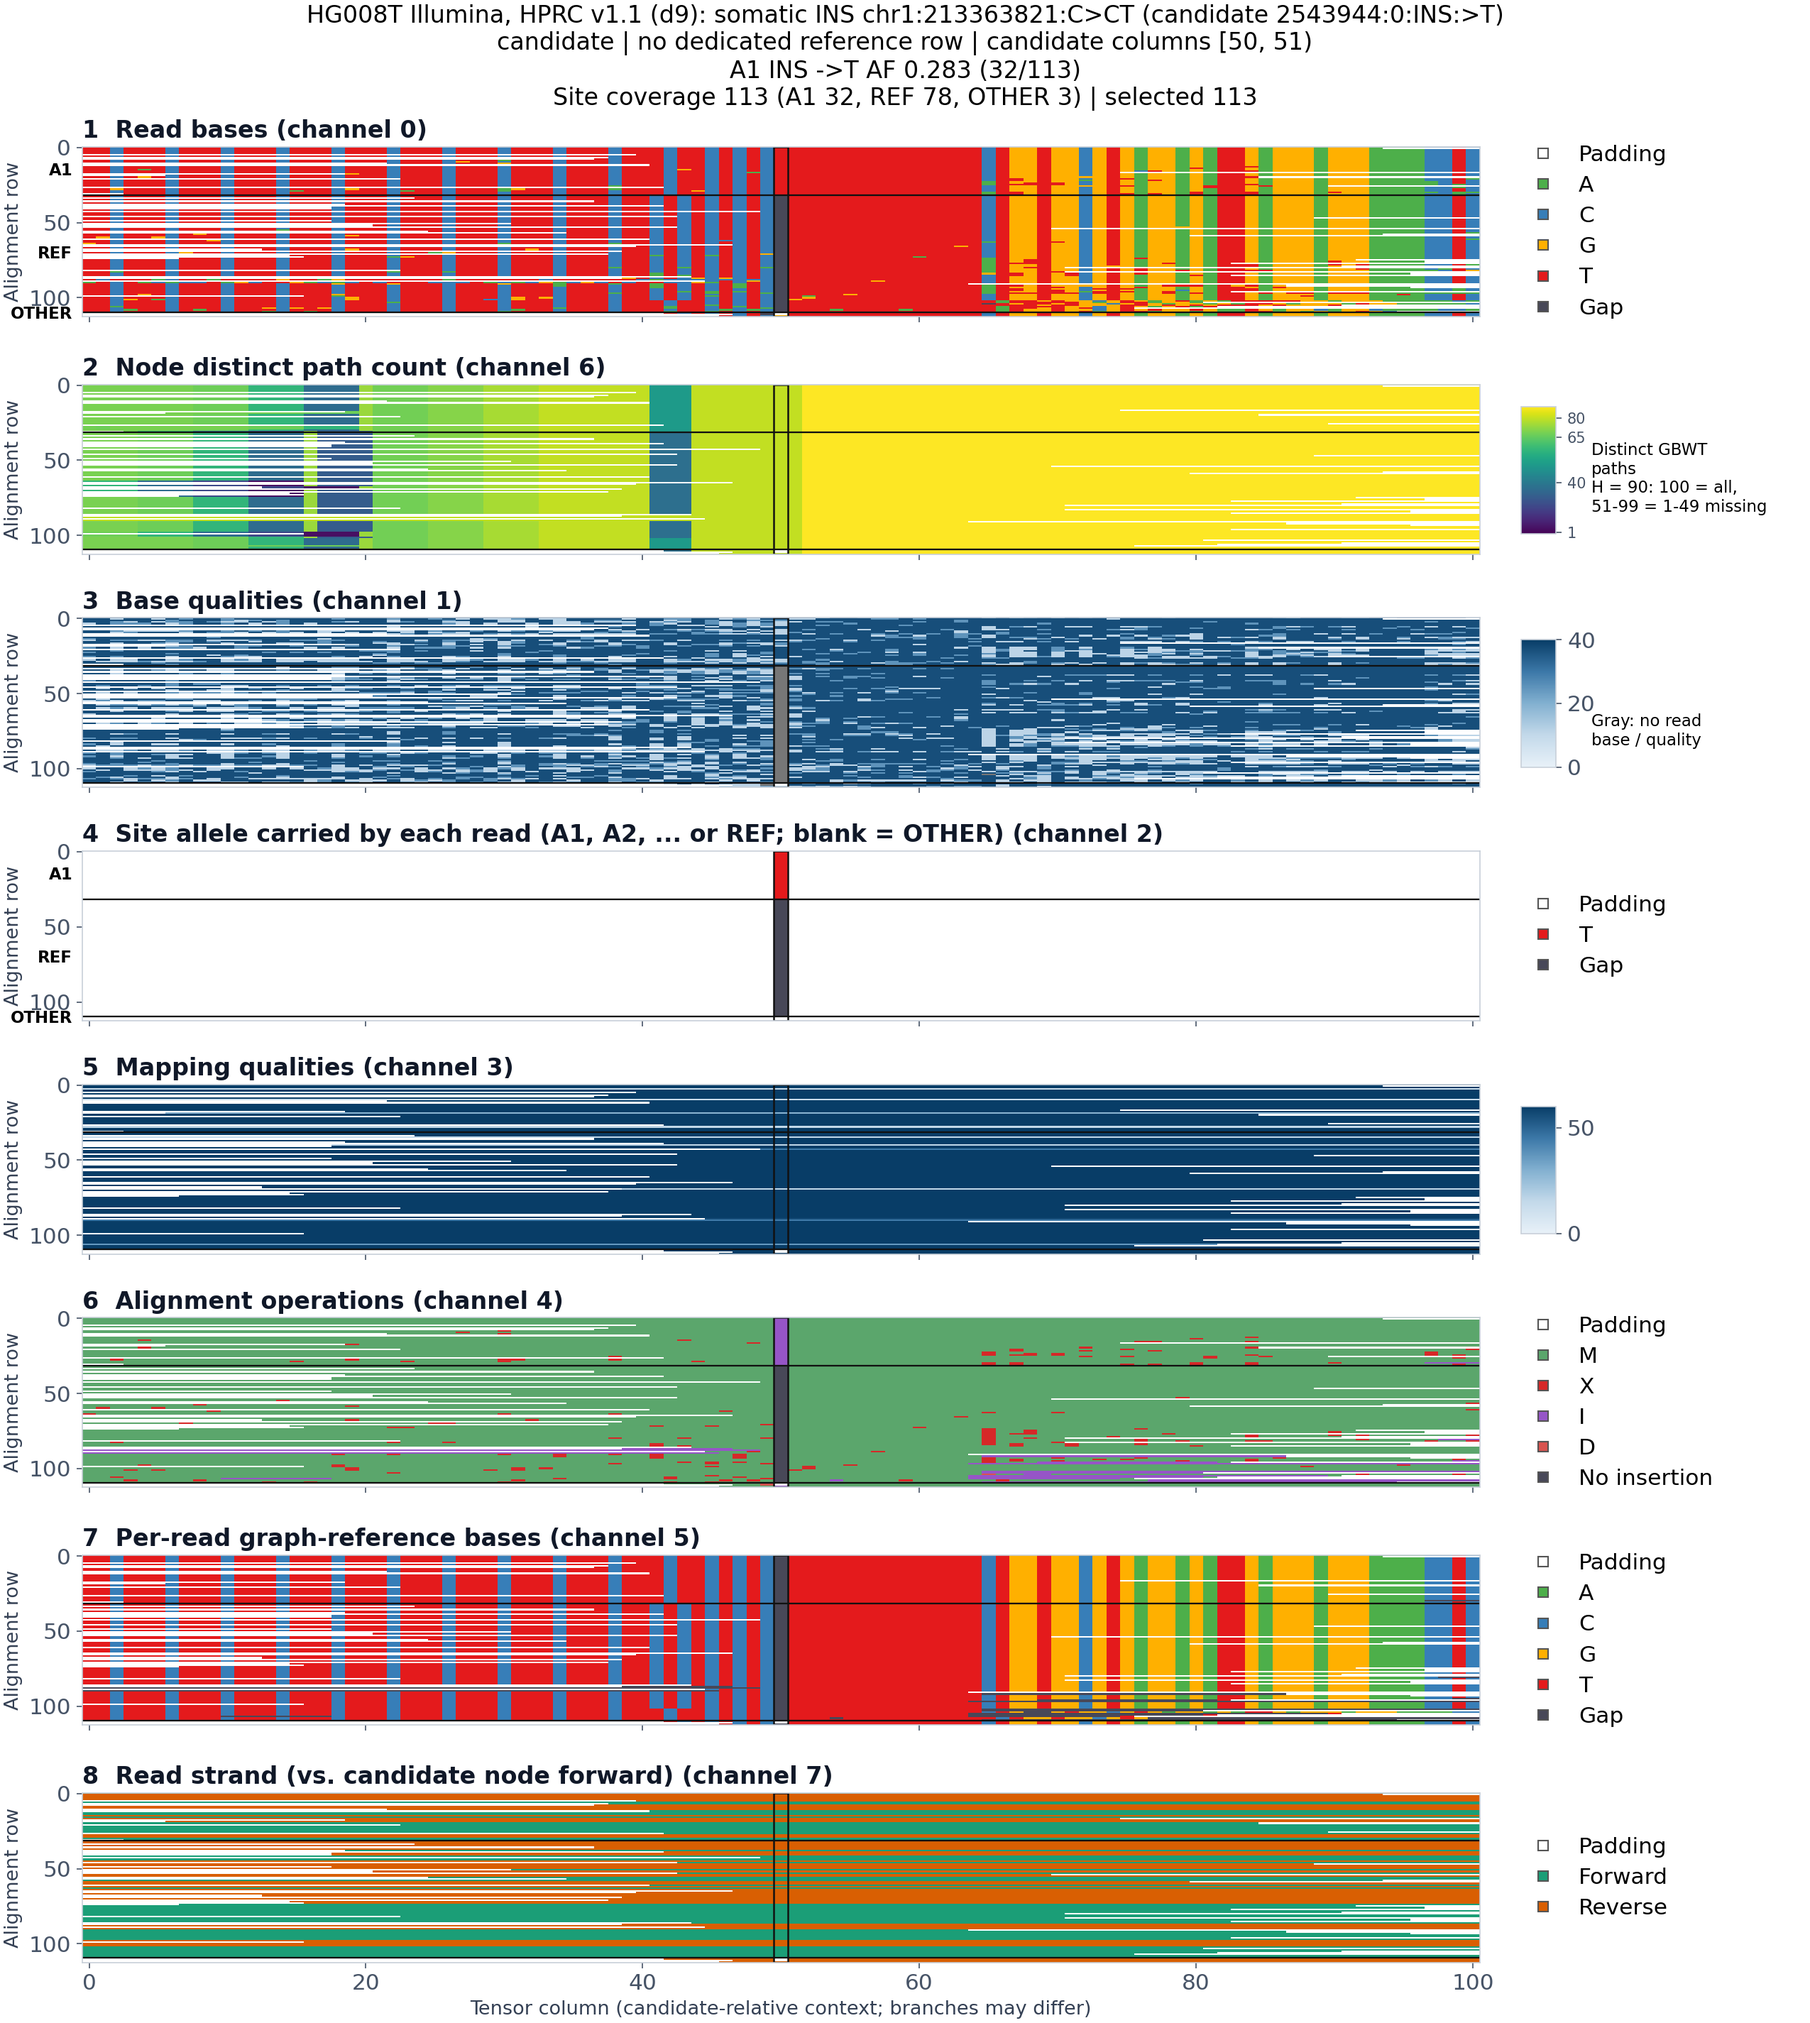
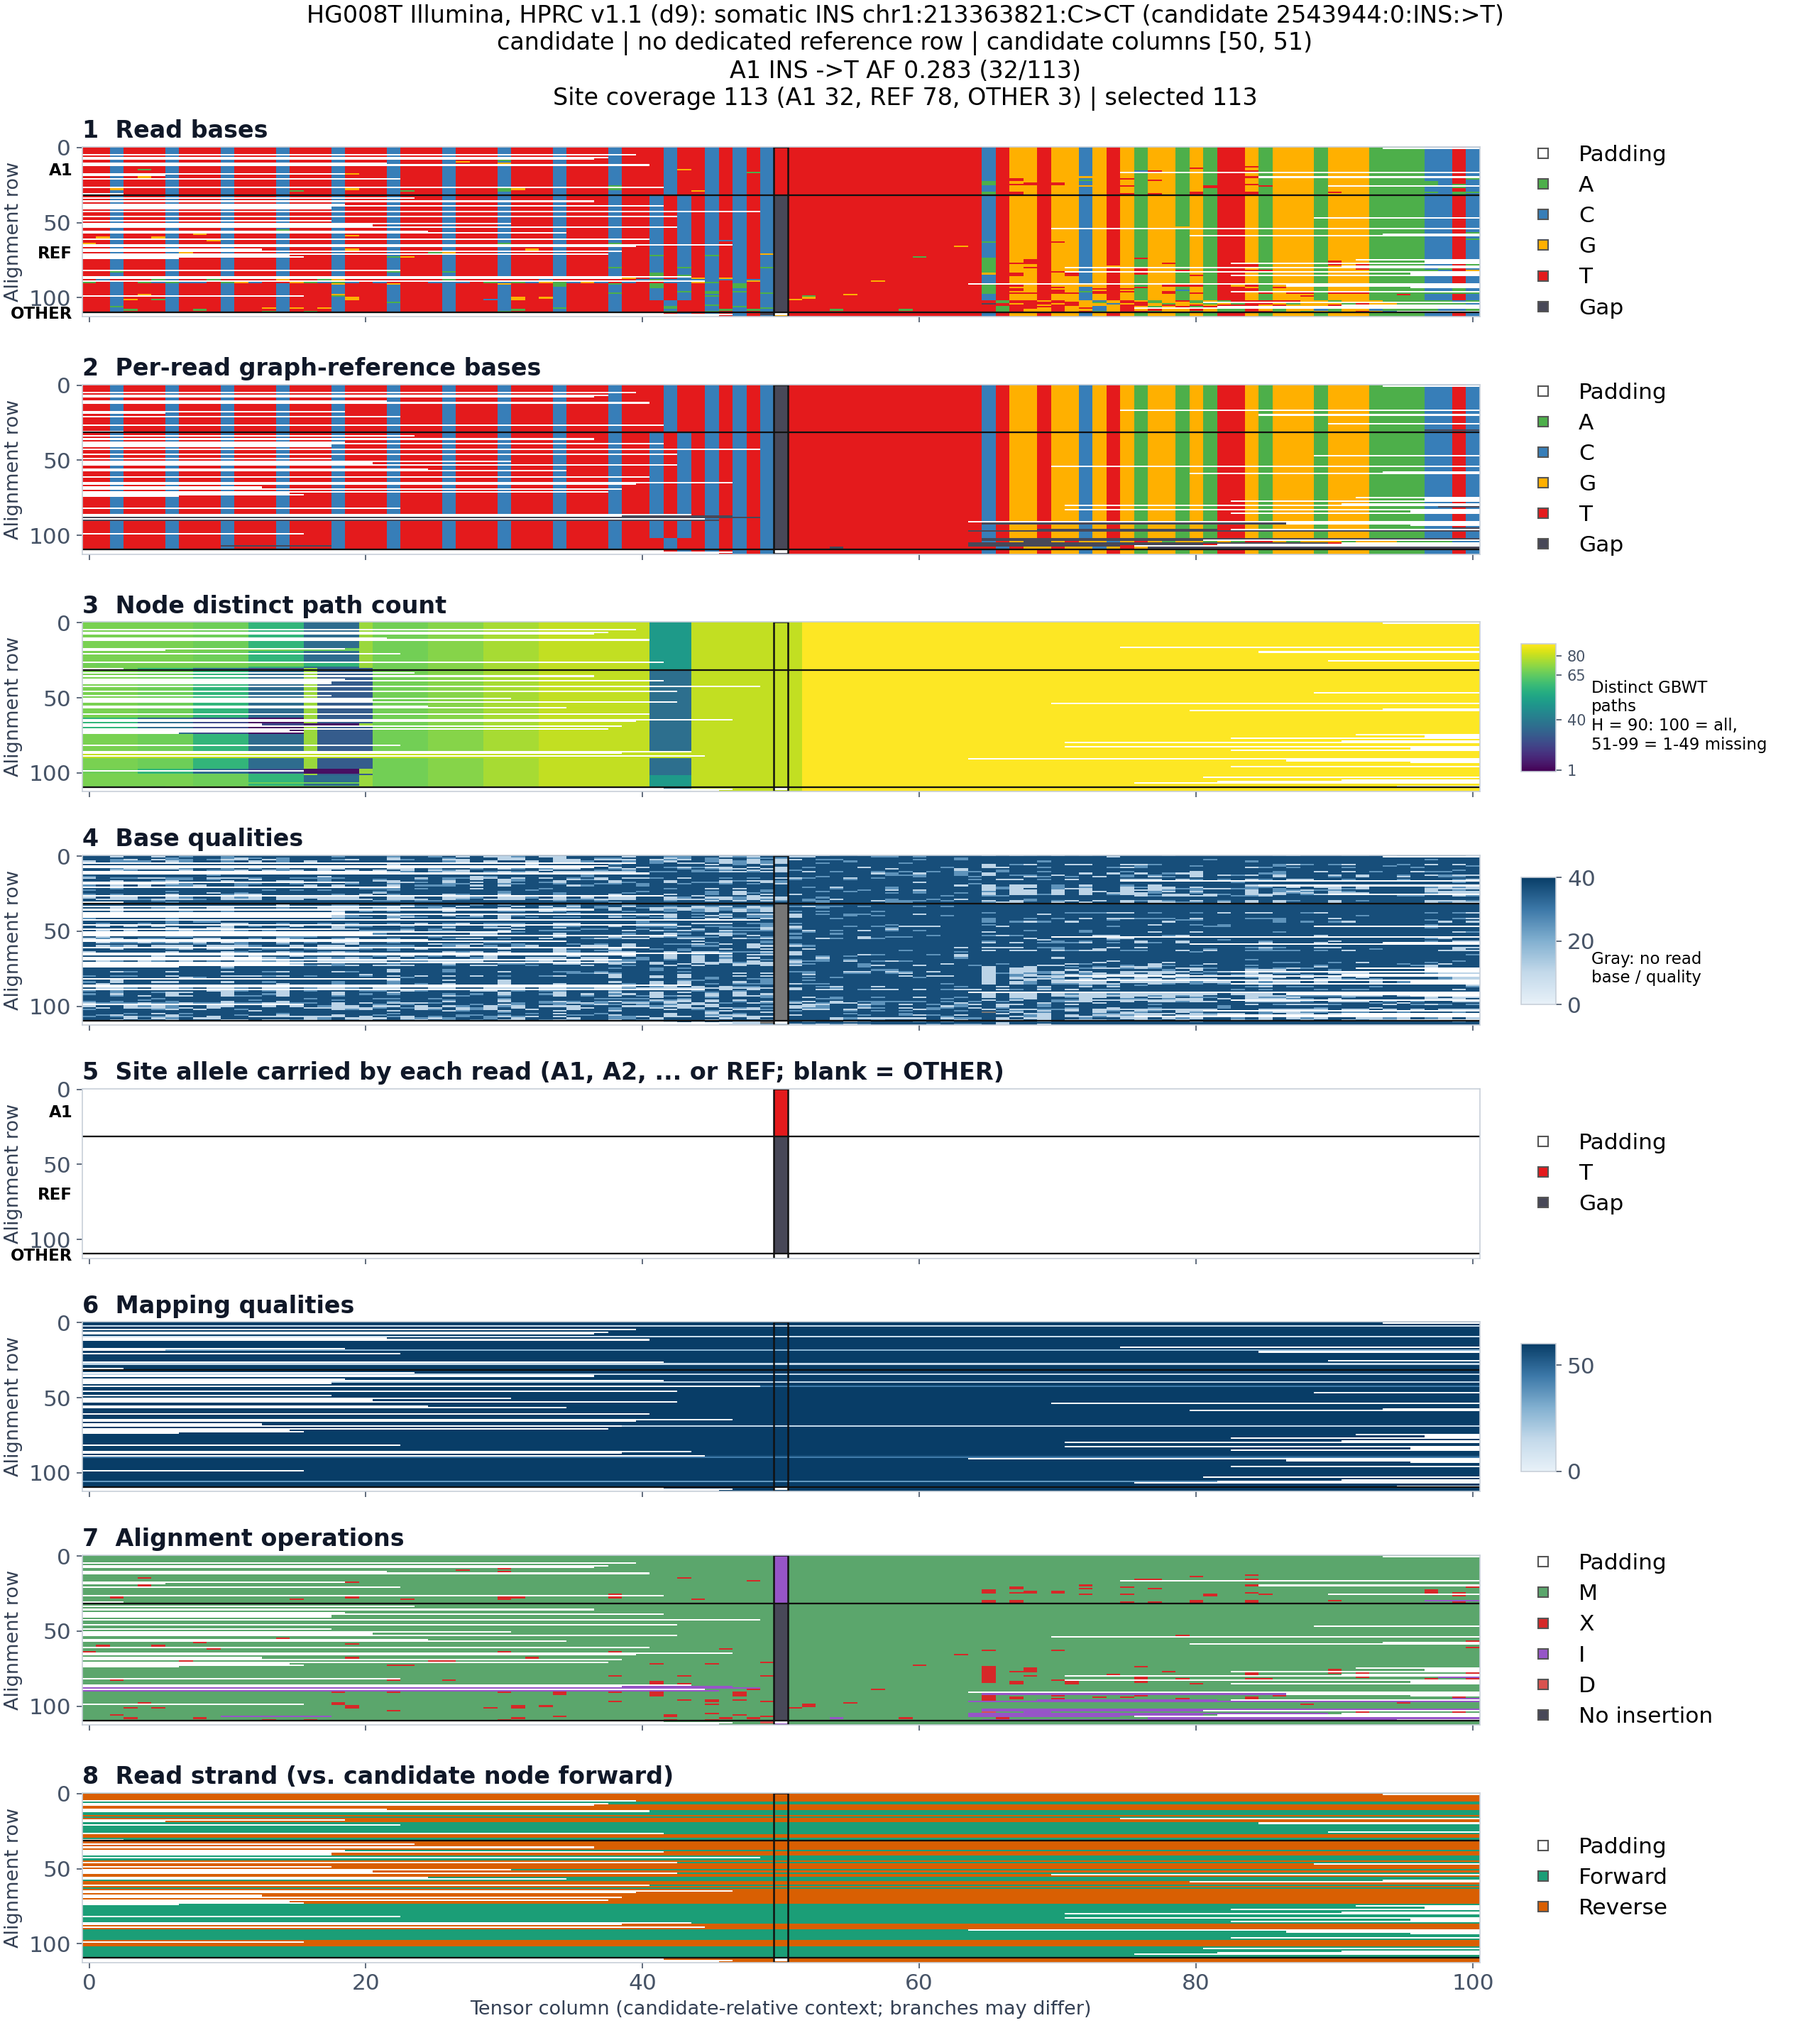
analysis/reviewer_response_20261011: the ten INDEL Supplementary Fig. R1.m2 panels in the order 0, 5, 6, 1, 2, 3, 4, 7 (graph-reference base second, path count third; user correction 2026-11-10); scripts/visualize_tensor.py --panel-order titles without the channel number

diff --git a/tests/test_tensor_visualization.py b/tests/test_tensor_visualization.py
@@ -277,7 +277,7 @@ class VisualizationTest(unittest.TestCase):
 
     def test_panel_order_moves_panels_and_keeps_channel_numbers(self):
         v6,m=v6_example()
-        order=[0,6,1,2,3,4,5,7]
+        order=[0,5,6,1,2,3,4,7]
         real_close=v.plt.close
         with tempfile.TemporaryDirectory() as d,patch.object(v.plt,"close"):
             self.assertEqual(v.visualize_tensor(v6,str(Path(d)/"o.png"),"T",False,None,metadata=m,panel_order=order),2)
@@ -285,11 +285,12 @@ class VisualizationTest(unittest.TestCase):
             main=[ax for ax in fig.axes if ax.get_subplotspec() is not None and ax.get_subplotspec().colspan.start==0]
             rows={ax.get_subplotspec().rowspan.start:ax for ax in main}
             self.assertEqual(sorted(rows),list(range(8)))
-            np.testing.assert_array_equal(np.ma.filled(rows[1].images[0].get_array(),0),v6[6,:2])  # path count second
-            np.testing.assert_array_equal(rows[3].images[0].get_array(),v6[2,:2])                 # site allele third
-            self.assertTrue(rows[1].get_title(loc="left").startswith("2  Node distinct path count"))
-            self.assertTrue(rows[1].get_title(loc="left").endswith("(channel 6)"))
-            self.assertTrue(rows[2].get_title(loc="left").startswith("3  Base qualities"))
+            np.testing.assert_array_equal(rows[1].images[0].get_array(),v6[5,:2])                 # graph base second
+            np.testing.assert_array_equal(np.ma.filled(rows[2].images[0].get_array(),0),v6[6,:2])  # path count third
+            np.testing.assert_array_equal(rows[4].images[0].get_array(),v6[2,:2])                 # site allele fifth
+            self.assertEqual(rows[1].get_title(loc="left"),"2  Per-read graph-reference bases")
+            self.assertEqual(rows[2].get_title(loc="left"),"3  Node distinct path count")
+            self.assertEqual(rows[3].get_title(loc="left"),"4  Base qualities")
             self.assertEqual(rows[7].get_xlabel(),"Tensor column (candidate-relative context; branches may differ)")
             self.assertEqual([ax for ax in main if ax.get_xlabel()],[rows[7]])
             real_close(fig)

diff --git a/scripts/visualize_tensor.py b/scripts/visualize_tensor.py
@@ -472,8 +472,8 @@ def visualize_candidate_tensor(tensor, out_path, title, show_all_rows=False,
               "4  Mapping qualities", "5  Alignment operations", "6  Per-read graph-reference bases",
               "7  Node distinct path count" if v5 else "7  Node walk count",
               "8  Read strand (vs. candidate node forward)"]
-    if panel_order is not None:  # number panels by position; keep the channel number (0-based) in the title
-        titles = [f"{position[c] + 1}  {t.split('  ', 1)[1]} (channel {c})" for c, t in enumerate(titles)]
+    if panel_order is not None:  # number panels by position
+        titles = [f"{position[c] + 1}  {t.split('  ', 1)[1]}" for c, t in enumerate(titles)]
     for channel, ax in enumerate(axes):
         ax.set_title(titles[channel], loc="left", fontsize=16)
         ax.set_ylabel("Alignment row", fontsize=13)
@@ -675,8 +675,8 @@ def main() -> None:
     parser.add_argument("--shard-index", type=int, help="Metadata shard index for nonstandard filenames")
     parser.add_argument("--title", help="Optional figure title.")
     parser.add_argument("--panel-order", help="Candidate tensors: channels top to bottom, comma-separated 0-based "
-                        "(e.g. 0,6,1,2,3,4,5,7 puts the path count second); panels are numbered by position and "
-                        "titles keep the channel number. Default: channel order.")
+                        "(e.g. 0,5,6,1,2,3,4,7 puts the graph base second and the path count third); panels are numbered by "
+                        "position. Default: channel order.")
     args = parser.parse_args()
 
     path = os.path.expanduser(args.npy_path)

diff --git a/analysis/reviewer_response_20261011/supplementary/R1.m2/indel/README.md b/analysis/reviewer_response_20261011/supplementary/R1.m2/indel/README.md
@@ -5,8 +5,8 @@ example in `../fig_R1.m2_tensor_across_nodes.png`. Each is an exact match to a t
 `representative_allele_is_somatic_truth`, FILTER PASS, inside the benchmark BED). In each, the ALT and REF reads pass
 through different nodes somewhere in the window.
 
-Panels are drawn in the order of channels 0, 6, 1, 2, 3, 4, 5, 7, so the path count (channel 6) is panel 2. Panel
-titles keep the 0-based channel number. Rows are reads, grouped by the allele they carry at the site (A1 = ALT, then
+Panels are drawn in the order of channels 0, 5, 6, 1, 2, 3, 4, 7: read bases, graph-reference bases (channel 5),
+path count (channel 6), then base quality, site allele, mapping quality, alignment operation and strand. Rows are reads, grouped by the allele they carry at the site (A1 = ALT, then
 REF, then OTHER). Columns are the 101 positions of the window; the site starts at column 50.
 
 ## Files
@@ -17,7 +17,7 @@ REF, then OTHER). Columns are the 101 positions of the window; the site starts a
 | `select_examples.py` → `candidates.tsv` | every exact, PASS, in-BED somatic truth INDEL tensor on chr1 of the twelve HPRC sets (HG008T / COLO829T × Illumina, PacBio HiFi or Fiber-seq, ONT × HPRC v1.1 d9 / v2.1 d46) with >= 5 ALT and REF rows: 1,661 tensors |
 | `choose.py` → `picks.tsv` | the ten examples (rules below) |
 | `annotate.py` → `annotations.md` | caption facts: GRCh38-path nodes under the window and, per branch column, the channel-6 codes of the ALT and REF rows decoded to haplotype counts and matched to nodes |
-| `fig_R1.m2_INDEL_NN.png` | the figures (`scripts/visualize_tensor.py --panel-order 0,6,1,2,3,4,5,7`) |
+| `fig_R1.m2_INDEL_NN.png` | the figures (`scripts/visualize_tensor.py --panel-order 0,5,6,1,2,3,4,7`) |
 
 Selection (`choose.py`): >= 10 ALT and >= 10 REF rows; the window over >= 3 GRCh38-path nodes; at least one column
 outside the site where >= 80% of ALT rows and >= 80% of REF rows each share one path-count code, the two codes differ by

diff --git a/analysis/reviewer_response_20261011/points/R1.m2.md b/analysis/reviewer_response_20261011/points/R1.m2.md
@@ -39,7 +39,7 @@ Rendered with `scripts/visualize_tensor.py` (`supplementary/R1.m2/make_figure.sh
 - 2026-11-10（用户要求）：另做了 10 张 INDEL 版 Supplementary Fig. R1.m2（`supplementary/R1.m2/indel/`，README 里有选法和 10 段 caption）：
   chr1 exact、PASS、BED 内的 somatic truth INDEL，window 跨 >= 3 个 GRCh38-path node，且有一列 ALT 和 REF reads 走不同的 node
   （path count 差 >= 10，不是同一批 node 被 INDEL 平移）。HG008T 六套各至少一张，COLO829T 只有 Fiber-seq v1.1 一张（其余 COLO829T
-  套没有满足条件的新 truth）。这 10 张图 panel 顺序按用户要求改成 channel 0, 6, 1, 2, 3, 4, 5, 7（path count 第二）；
+  套没有满足条件的新 truth）。这 10 张图 panel 顺序按用户要求（11-10 更正）改成 channel 0, 5, 6, 1, 2, 3, 4, 7（graph base 第二、path count 第三，标题不带 channel 编号）；
   `scripts/visualize_tensor.py --panel-order`。原来的 SNV 图没有重画。用哪张、放不放进 letter 由用户定；INDEL 10 的 REF reads
   在 site 后几个碱基处自己带一个 16 bp insertion，放进 letter 前要想清楚。
 
